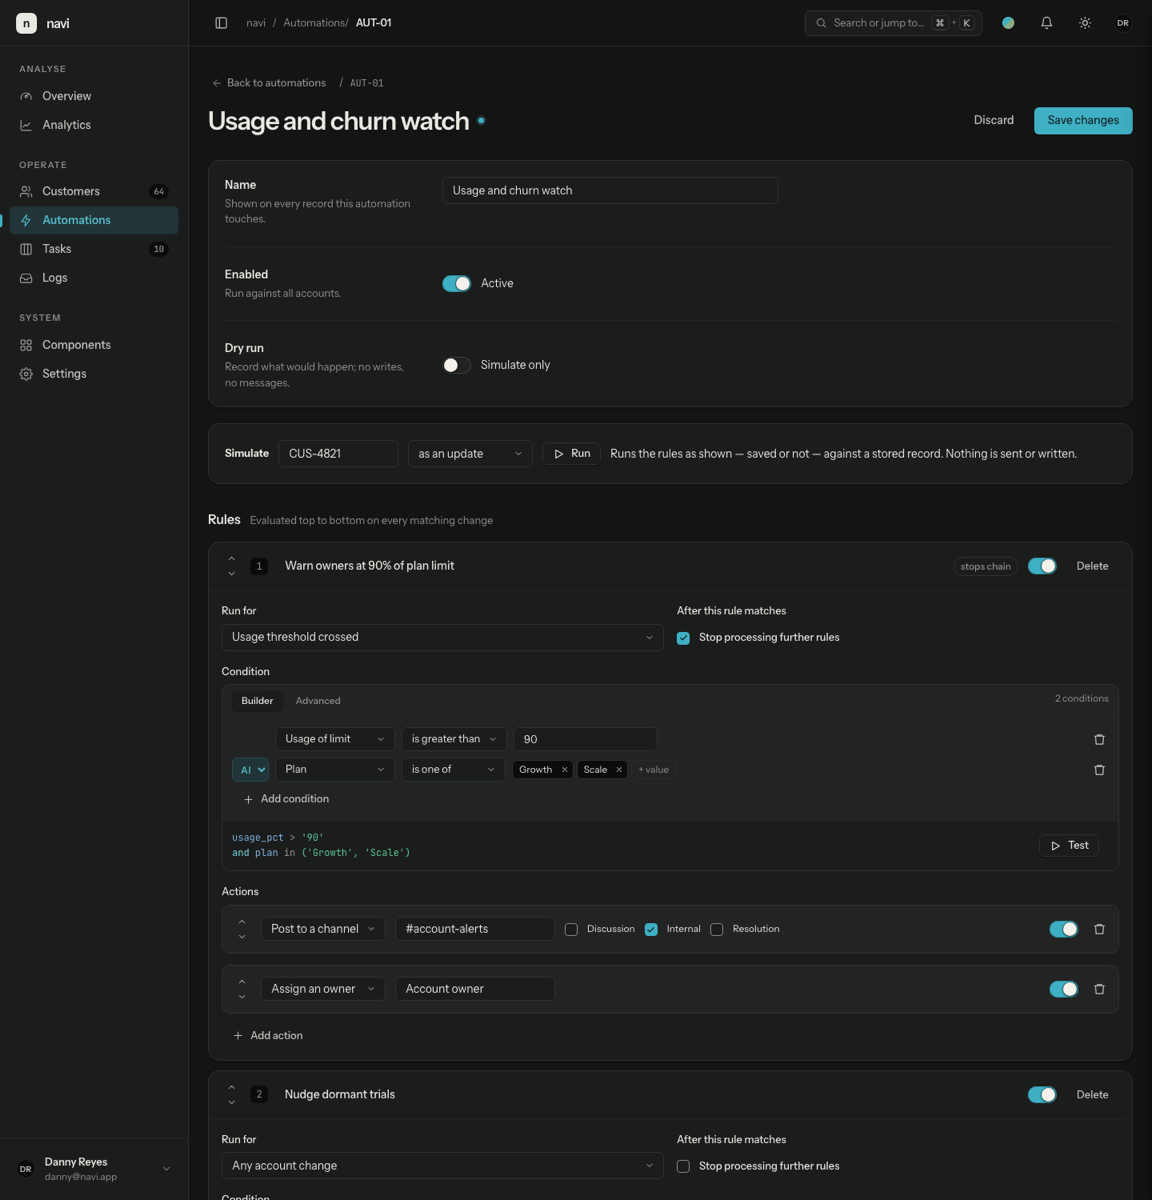
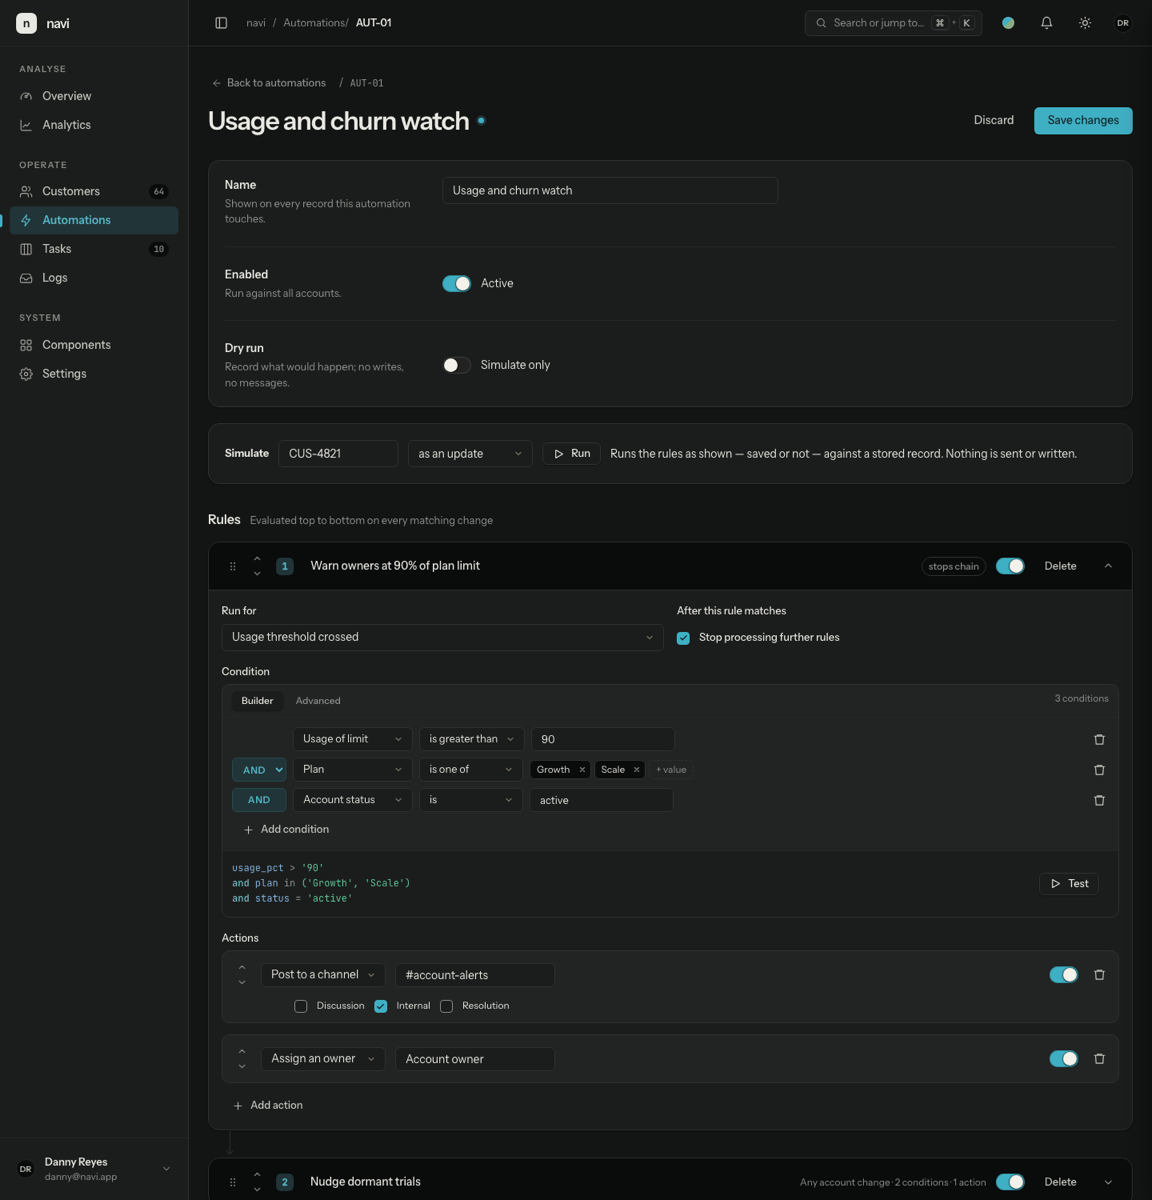
fix(cond): stack rows in a narrow container and stop clipping the join

diff --git a/plugins/navi-ui/skills/navi-ui/assets/navi.css b/plugins/navi-ui/skills/navi-ui/assets/navi.css
@@ -1135,7 +1135,7 @@ table.tbl { width: 100%; border-collapse: collapse; font-size: var(--text-base);
 .cond-row { display: flex; align-items: center; gap: var(--s2); flex-wrap: wrap; }
 .cond-row .select, .cond-row .input { width: auto; height: 30px; font-size: var(--text-sm); }
 .cond-join {
-  width: 46px; flex-shrink: 0; height: 30px; padding: 0 6px;
+  width: var(--cond-join-w); flex-shrink: 0; height: 30px; padding: 0 6px;
   font-size: var(--text-xs); font-weight: 600; text-transform: uppercase;
   letter-spacing: .06em; color: var(--accent-on-soft);
   background: var(--accent-soft); border: 1px solid var(--accent-line);
@@ -1144,7 +1144,7 @@ table.tbl { width: 100%; border-collapse: collapse; font-size: var(--text-base);
 /* as a <select> the browser centres the text; as a static word it is a plain
    flex item, and the line box would sit at the top of the fixed height. */
 .cond-join:not(select) { display: grid; place-items: center; line-height: 1; }
-.cond-row > .cond-join-spacer { width: 46px; flex-shrink: 0; }
+.cond-row > .cond-join-spacer { width: var(--cond-join-w); flex-shrink: 0; }
 
 .cond-foot {
   display: flex; align-items: center; gap: var(--s3); flex-wrap: wrap;
@@ -1153,6 +1153,31 @@ table.tbl { width: 100%; border-collapse: collapse; font-size: var(--text-base);
 .cond-result { font-size: var(--text-xs); font-family: var(--font-mono); }
 .cond-result.ok  { color: var(--ok); }
 .cond-result.err { color: var(--bad); }
+
+/* A condition builder is as often in a side panel as in a full-width card, and
+   a row of field/operator/value does not fit in 330px. Below that the row
+   stacks and the join moves to a line of its own. The container decides, not
+   the viewport, so the same markup works in both places.
+   width:100% is not cosmetic: container-type stops the box sizing itself from
+   its contents, so in any shrink-to-fit parent (a flex row, a float) it would
+   otherwise collapse to nothing. One join width, defined once — two literals
+   that had to match is what let the select clip "and" to "a". */
+.cond { container-type: inline-size; width: 100%; --cond-join-w: 68px; }
+@container (max-width: 430px) {
+  /* one control per line, in source order, and the row gets an edge so the
+     stack still reads as one condition rather than five loose controls */
+  .cond-row {
+    display: grid; grid-template-columns: minmax(0, 1fr); gap: var(--s2);
+    padding: var(--s2); border: 1px solid var(--line);
+    border-radius: var(--radius-sm); background: var(--surface);
+  }
+  .cond-row > * { min-width: 0; }
+  .cond-row > .select, .cond-row > .input { width: 100%; }
+  .cond-row > .cond-join { justify-self: start; }
+  .cond-row > .cond-join-spacer { display: none; }
+  .cond-row > .icon-btn { justify-self: end; }
+  .cond-foot { flex-direction: column; align-items: stretch; }
+}
 
 /* ---- value chips + typeahead ---- */
 .chips { display: flex; align-items: center; gap: var(--s1); flex-wrap: wrap; }

diff --git a/plugins/navi-ui/skills/navi-ui/reference/COMPONENTS.md b/plugins/navi-ui/skills/navi-ui/reference/COMPONENTS.md
@@ -325,6 +325,12 @@ under the type select.
 
 Typeahead popup: `.typeahead-pop` inside a `.typeahead` container.
 
+`.cond` is a container query root, and so takes its width from its parent
+rather than its contents — it is `width: 100%` for that reason; do not remove
+it. Under 430px — a side panel, a `.dock`, a phone — each row stacks and the
+join moves to a line of its own. Same markup either way; do not write a narrow
+variant.
+
 ## Log stream
 
 ```html
